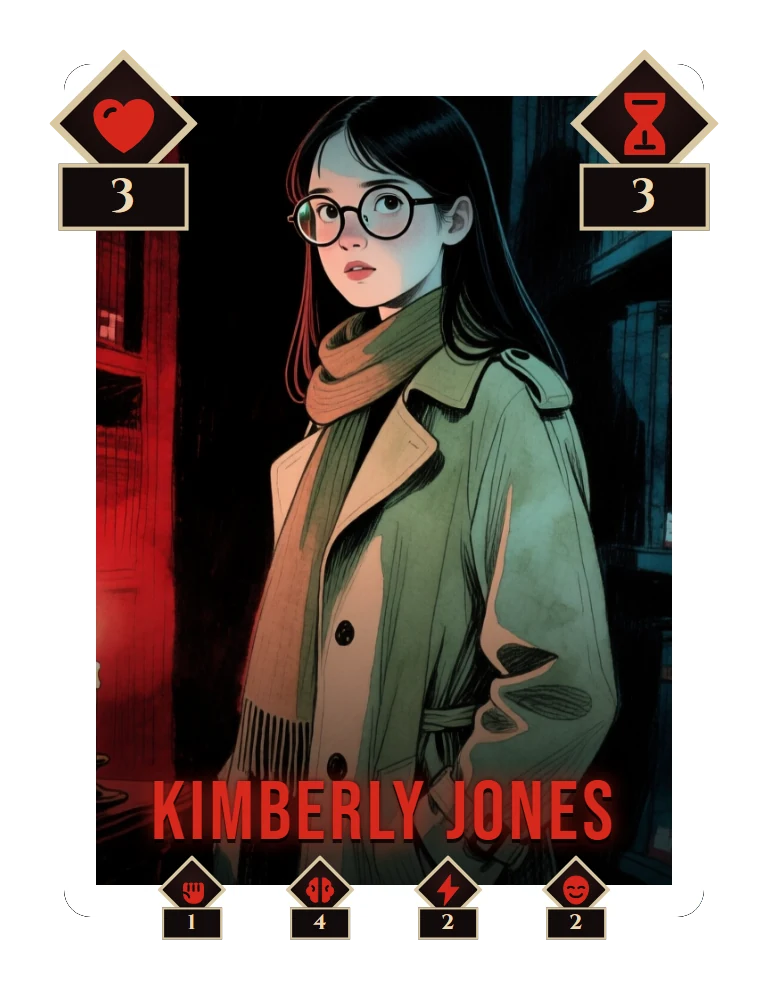
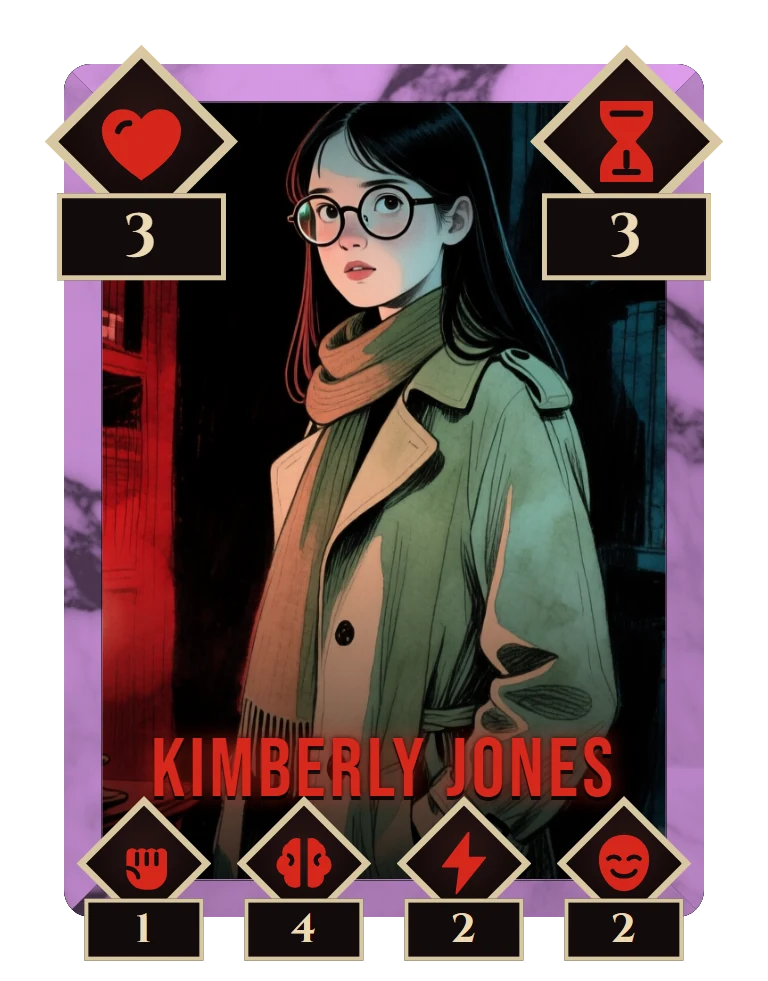
Carte: layout predefinito dei personaggi con cornice a marmo tinta per eroe e icone sigillo grandi sporgenti
Cornice a materiale (texture di Qwen in tools/galleria/texture), icone più grandi con fila inferiore equidistante,
nome più alto, statistiche di Scott e Kimberly in carta.stat, carte ri-esportate; script per generare le texture.

Changed region(s): [[0.0625, 0.0306, 0.9375, 0.9786]]

diff --git a/tools/galleria/carta.js b/tools/galleria/carta.js
@@ -13,17 +13,23 @@ const Carta = (() => {
   // s = 1.07: rifila il margine di carta con pennellate che le immagini generate hanno quasi sempre
   const IMM_DEF = { x: 0, y: 0, s: 1.07, st: 1 };   // s = scala (larghezza), st = stiramento verticale rispetto alle proporzioni originali
 
+  // colore (chiaro, per dare contrasto sull'illustrazione) con cui si tinge la cornice di ogni personaggio
+  const TINTE_PG = { P01: "#9cc26b", P02: "#f2bb4d", P03: "#c98fd6", P04: "#76aee0", P05: "#ec7f6f", P06: "#62c9bf" };
+  const MATERIALI = [["", "Nessuno (filo colorato)"], ["marmo_venato", "Marmo venato"]];   // texture in tools/galleria/texture/<id>.png (+ _r = ruotata di 90 gradi)
+
   const rapporto = c => (c.formato === "orizzontale" ? 3 / 2 : 3 / 4);
   const div = cl => Object.assign(document.createElement("div"), { className: cl });
   const clona = o => JSON.parse(JSON.stringify(o));
 
   function predefiniti(c) {
-    const vert = c.formato !== "orizzontale";
+    const vert = c.formato !== "orizzontale", pg = c.tipo === "personaggio";
     const els = [
       { id: "immagine", tipo: "immagine", nome: "Immagine", visibile: true },
       { id: "sfumatura", tipo: "sfumatura", nome: "Sfumatura", visibile: true, altezza: 48, intensita: 1 },
-      { id: "cornice", tipo: "cornice", nome: "Cornice", visibile: true, inset: 0, spessore: 5, colore: "#ffffff", opacita: 1, raggio: 4.2 },
-      { id: "nome", tipo: "testo", nome: "Nome", visibile: true, testo: null, x: 50, y: vert ? 88 : 86, dim: vert ? 13 : 11,
+      pg ? { id: "cornice", tipo: "cornice", nome: "Cornice", visibile: true, inset: 0, spessore: 6, colore: TINTE_PG[c.id.split("_")[0]] || "#c8c8c8", opacita: 1, raggio: 4.2, materiale: "marmo_venato" }
+         : { id: "cornice", tipo: "cornice", nome: "Cornice", visibile: true, inset: 0, spessore: 5, colore: "#ffffff", opacita: 1, raggio: 4.2 },
+      // nei personaggi il nome sta più in alto per lasciare posto alla fila di icone grandi che sporge dal bordo inferiore
+      { id: "nome", tipo: "testo", nome: "Nome", visibile: true, testo: null, x: 50, y: pg ? 83 : vert ? 88 : 86, dim: vert ? 13 : 11,
         font: "Bebas Neue", colore: "#d6281c", spaziatura: 0.6, maiuscolo: true, alone: true, rot: 0 },
     ];
     if (c.tipo === "personaggio" && typeof Statistiche !== "undefined") els.push(clona(Statistiche.PREDEFINITO));   // le carte personaggio hanno le statistiche
@@ -57,6 +63,13 @@ const Carta = (() => {
     if (e.tipo === "sfumatura") {
       const n = div("cx-el cx-sfumatura"), k = e.intensita;
       n.style.background = `linear-gradient(180deg, rgba(0,0,0,${0.28 * k}) 0%, transparent 22%, transparent ${100 - e.altezza}%, rgba(0,0,0,${Math.min(1, 0.88 * k)}) 100%)`;
+      return n;
+    }
+    if (e.tipo === "cornice" && e.materiale) {   // cornice a materiale: quattro lati con giunti a 45 gradi, texture in grigio tinta con `colore`
+      const n = div("cx-el cx-cornice cx-cornice-mat");
+      n.style.setProperty("--p", e.spessore + "cqw"); n.style.setProperty("--c", e.colore); n.style.opacity = e.opacita;
+      n.style.setProperty("--tx", `url("/s/texture/${e.materiale}.png")`); n.style.setProperty("--txr", `url("/s/texture/${e.materiale}_r.png")`);
+      ["t", "b", "l", "r"].forEach(k => n.append(div("lato " + k)));
       return n;
     }
     if (e.tipo === "cornice") {
@@ -96,5 +109,5 @@ const Carta = (() => {
     return wrap;
   }
 
-  return { FONT, IMM_DEF, rapporto, predefiniti, elementi, imm, render, clona };
+  return { FONT, MATERIALI, TINTE_PG, IMM_DEF, rapporto, predefiniti, elementi, imm, render, clona };
 })();

diff --git a/tools/galleria/statistiche.js b/tools/galleria/statistiche.js
@@ -47,7 +47,7 @@ const Statistiche = (() => {
 
   /* ---- disposizioni: posizione del centro di ogni icona (x, y in % della carta, ordine pf pa for int rap car),
    *      fattore di grandezza k e un'eventuale tavoletta scura dietro (l, t, w, h in % della carta) ---- */
-  function disposizione(id, u0, H) {   // u0 = lato base dell'icona (cqw), H = altezza della carta in cqw
+  function disposizione(id, u0, H, m = 0) {   // u0 = lato base dell'icona (cqw), H = altezza della carta in cqw, m = ulteriore sporgenza verso l'esterno (cqw: spessore della cornice)
     const S = (xs, ys, k = 1) => xs.map((x, i) => ({ x, y: ys[i], k: Array.isArray(k) ? k[i] : k }));
     switch (id) {
       case "colonna": return { punti: S(Array(6).fill(11.5), [14, 26, 38, 50, 62, 74]), pannello: { l: 2, t: 7, w: 19, h: 75 } };
@@ -57,11 +57,11 @@ const Statistiche = (() => {
       // forza, intelletto, rapidità e carisma in orizzontale sotto il nome. Ogni icona sporge dal bordo del 10% del proprio lato
       // (le due d'angolo da due lati, quelle in basso solo dal basso): nella carta fisica non compaiono oltre il bordo.
       case "pf": {
-        const k = [1.55, 1.55, 0.72, 0.72, 0.72, 0.72], u = k.map(x => u0 * x), pc = v => v / H * 100;   // cqw verticali -> % dell'altezza
+        const k = [1.55, 1.55, 1.08, 1.08, 1.08, 1.08], u = k.map(x => u0 * x), pc = v => v / H * 100;   // cqw verticali -> % dell'altezza
         return { punti: [
-          { x: 0.4 * u[0], y: pc(0.4 * u[0]), k: k[0] },
-          { x: 100 - 0.4 * u[1], y: pc(0.4 * u[1]), k: k[1] },
-          ...[20, 40, 60, 80].map((x, j) => ({ x, y: 100 - pc(0.4 * u[j + 2]), k: k[j + 2] })),
+          { x: 0.4 * u[0] - m, y: pc(0.4 * u[0] - m), k: k[0] },
+          { x: 100 - 0.4 * u[1] + m, y: pc(0.4 * u[1] - m), k: k[1] },
+          ...[12.5, 37.5, 62.5, 87.5].map((x, j) => ({ x, y: 100 - pc(0.4 * u[j + 2] - m), k: k[j + 2] })),
         ] };
       }
       case "medaglioni": return { punti: S([12, 88, 8, 92, 12, 88], [8, 8, 40, 40, 74, 74], 1.05) };
@@ -85,7 +85,7 @@ const Statistiche = (() => {
     assicuraFiltro();
     const host = document.createElement("div"); host.className = `cx-el cx-stats cx-st-${e.stile}`;
     const val = Object.assign({}, VALORI_ESEMPIO, c.stat || {}, e.valori || {});
-    const u0 = 15 * (e.scala || 1), d = disposizione(e.disposizione, u0, c.formato === "orizzontale" ? 100 / 1.5 : 100 / 0.75), dx = e.dx || 0, dy = e.dy || 0;   // dx, dy: scostamento di tutto il gruppo (% della carta)
+    const u0 = 15 * (e.scala || 1), d = disposizione(e.disposizione, u0, c.formato === "orizzontale" ? 100 / 1.5 : 100 / 0.75, e.margine || 0), dx = e.dx || 0, dy = e.dy || 0;   // dx, dy: scostamento di tutto il gruppo (% della carta)
     if (d.pannello) {
       const p = document.createElement("div"); p.className = "cx-st-pannello";
       Object.assign(p.style, { left: d.pannello.l + dx + "%", top: d.pannello.t + dy + "%", width: d.pannello.w + "%", height: d.pannello.h + "%" });
@@ -102,6 +102,6 @@ const Statistiche = (() => {
     return host;
   }
 
-  const PREDEFINITO = { id: "statistiche", tipo: "statistiche", nome: "Statistiche", visibile: true, disposizione: "pf", stile: "incisione", scala: 1, dx: 0, dy: 0, valori: null };
+  const PREDEFINITO = { id: "statistiche", tipo: "statistiche", nome: "Statistiche", visibile: true, disposizione: "pf", stile: "sigillo", scala: 1.3, margine: 0, dx: 0, dy: 0, valori: null };
   return { STAT, STILI, DISPOSIZIONI, VALORI_ESEMPIO, PREDEFINITO, crea };
 })();

diff --git a/tools/galleria/carta.css b/tools/galleria/carta.css
@@ -10,6 +10,14 @@
 .cx-immagine img { display: block; width: 100%; height: auto; -webkit-user-drag: none; pointer-events: none; }
 .cx-sfumatura { inset: 0; pointer-events: none; }
 .cx-cornice { pointer-events: none; }
+/* cornice a materiale: ogni lato e' un trapezio ritagliato (giunti a 45 gradi); la texture e' in grigio chiaro e si tinge col colore del personaggio (multiply) */
+.cx-cornice-mat { inset: 0; }
+.cx-cornice-mat .lato { position: absolute; inset: 0; background-color: var(--c); background-blend-mode: multiply; background-size: 150cqw 150cqw; }
+.cx-cornice-mat .t { background-image: var(--tx); background-position: -10cqw -20cqw; clip-path: polygon(0 0, 100% 0, calc(100% - var(--p)) var(--p), var(--p) var(--p)); filter: brightness(1.1); }
+.cx-cornice-mat .b { background-image: var(--tx); background-position: -50cqw -90cqw; clip-path: polygon(0 100%, 100% 100%, calc(100% - var(--p)) calc(100% - var(--p)), var(--p) calc(100% - var(--p))); filter: brightness(.86); }
+.cx-cornice-mat .l { background-image: var(--txr); background-position: -30cqw -10cqw; clip-path: polygon(0 0, var(--p) var(--p), var(--p) calc(100% - var(--p)), 0 100%); filter: brightness(.98); }
+.cx-cornice-mat .r { background-image: var(--txr); background-position: -100cqw -40cqw; clip-path: polygon(100% 0, calc(100% - var(--p)) var(--p), calc(100% - var(--p)) calc(100% - var(--p)), 100% 100%); filter: brightness(.92); }
+.cx-cornice-mat::after { content: ""; position: absolute; inset: calc(var(--p) - .25cqw); border: .25cqw solid rgba(0, 0, 0, .55); border-radius: 1cqw; }
 .cx-testo { white-space: nowrap; line-height: 1; }
 .cx-modifica .cx-immagine, .cx-modifica .cx-testo { cursor: move; touch-action: none; }
 .cx-modifica .cx-stat, .cx-modifica .cx-st-pannello { pointer-events: auto; cursor: move; touch-action: none; }

diff --git a/tools/galleria/editor.js b/tools/galleria/editor.js
@@ -288,7 +288,9 @@ const Editor = (() => {
       const col = Object.assign(document.createElement("input"), { type: "color", value: e.colore }); col.oninput = () => { e.colore = col.value; cambiato(); };
       const ins = slider(0, 25, 0.1, e.inset, v => (e.inset = v), v => v.toFixed(1)), sp = slider(0.05, 12, 0.05, e.spessore, v => (e.spessore = v), v => v.toFixed(2));
       const op = slider(0, 1, 0.01, e.opacita, v => (e.opacita = v), v => Math.round(v * 100) + "%"), ra = slider(0, 15, 0.1, e.raggio, v => (e.raggio = v), v => v.toFixed(1));
-      p.append(riga("Margine", ins), riga("Spessore", sp), riga("Colore", col), riga("Opacità", op), riga("Angoli tondi", ra));
+      const ma = document.createElement("select"); Carta.MATERIALI.forEach(([i, n]) => ma.append(new Option(n, i, false, i === (e.materiale || ""))));
+      ma.onchange = () => { if (ma.value) e.materiale = ma.value; else delete e.materiale; cambiato(); };
+      p.append(riga("Materiale", ma), riga("Margine", ins), riga("Spessore", sp), riga("Colore" + (e.materiale ? " (tinta)" : ""), col), riga("Opacità", op), riga("Angoli tondi", ra));
       aggiornaValori = () => ins.set(e.inset);
     } else if (e.tipo === "statistiche") {
       const sd = document.createElement("select"); Statistiche.DISPOSIZIONI.forEach(([i, n]) => sd.append(new Option(n, i, false, i === e.disposizione)));

diff --git a/tools/comfyui/genera_texture.py b/tools/comfyui/genera_texture.py
@@ -1,0 +1,37 @@
+"""Genera texture di materiali (legno, marmo, pietra ...) per le cornici delle carte, a media luminosita'
+cosi' da poterle colorare a piacere (multiply / tinta) anche in vettoriale. Output in arte/texture/<id>_v<N>.png.
+Uso: python tools/comfyui/genera_texture.py [id ...]"""
+import os, sys, time
+sys.path.insert(0, os.path.dirname(__file__))
+from genera import genera, coda_vuota
+
+BASE = ("flat top-down close-up photograph of {m}, filling the entire frame edge to edge, uniform even lighting, no shadows, "
+        "no perspective, no objects, no border, seamless tileable material texture, high detail, sharp, strong contrast, rich visible grain and relief, natural mid-tone colors")
+NEG = "text, letters, watermark, frame, border, object, person, hand, perspective, vignette, dark shadows, strong color, cartoon, drawing"
+
+MATERIALI = {
+    "legno_chiaro": "light oak wooden planks with fine straight grain",
+    "legno_antico": "old weathered dark wood board with deep grain, cracks and knots",
+    "marmo_venato": "white carrara marble slab with distinct dark grey veins",
+    "marmo_nero": "polished black marble with thin white veins",
+    "pietra_tombale": "weathered speckled grey granite gravestone surface with lichen stains, uniform without any recess",
+    "pietra_grezza": "rough cut sandstone with cracks and chisel marks",
+    "intonaco": "peeling cracked old plaster wall with damp stains",
+    "metallo_arrugginito": "rusty corroded iron plate with scratches and rivet marks",
+    "cuoio": "old worn leather with creases and stitching texture",
+    "carta_parati": "faded damask victorian wallpaper pattern with stains and tears",
+    "mattoni": "old crumbling brick wall with moss and mortar",
+    "osso_avorio": "aged yellowed ivory bone surface with fine cracks",
+}
+
+if __name__ == "__main__":
+    if not coda_vuota():
+        sys.exit("Coda ComfyUI non vuota: riprovo più tardi.")
+    ids = sys.argv[1:] or list(MATERIALI)
+    for i, k in enumerate(ids):
+        for v in (1,):
+            dest = f"arte/texture/{k}_v{v}.png"
+            if os.path.exists(dest): continue
+            t = time.time()
+            s = genera(BASE.format(m=MATERIALI[k]), dest, NEG, 768, 768, seed=7000 + 100 * list(MATERIALI).index(k) + v)
+            print(k, v, "seed", s, f"{time.time()-t:.0f}s", flush=True)

diff --git a/tools/galleria/server.py b/tools/galleria/server.py
@@ -63,9 +63,10 @@ class Gestore(BaseHTTPRequestHandler):
         if percorso.startswith("/s/"):
             nome = percorso[3:]
             f = os.path.join(os.path.dirname(__file__), nome)
-            if re.fullmatch(r"[\w.-]+\.(js|css)", nome) and os.path.isfile(f):
+            if re.fullmatch(r"(texture/)?[\w.-]+\.(js|css|png)", nome) and os.path.isfile(f):
                 with open(f, "rb") as fh:
-                    return self._invia(200, fh.read(), "text/javascript; charset=utf-8" if nome.endswith(".js") else "text/css; charset=utf-8")
+                    tipo = {"js": "text/javascript; charset=utf-8", "css": "text/css; charset=utf-8", "png": "image/png"}[nome.rsplit(".", 1)[1]]
+                    return self._invia(200, fh.read(), tipo)
         if percorso == "/stats":
             with open(os.path.join(os.path.dirname(__file__), "stats.html"), "rb") as f:
                 return self._invia(200, f.read(), "text/html; charset=utf-8")

diff --git a/CLAUDE.md b/CLAUDE.md
@@ -76,6 +76,8 @@ I JSON sono caricati con `fetch` all'avvio da `script.js` (vedi le chiamate `fet
 
 - **Immagini nel gioco**: `arte/` è fuori da git, quindi le carte approvate nella galleria vanno esportate con `python tools/galleria/esporta.py` (Edge headless): scrive `assets/carte/personaggi/<Pnn>.webp` (carta completa con nome e statistiche, sfondo trasparente), `assets/carte/luoghi/<Ann>.webp` (solo i luoghi **abbandonati**, non quelli `_abitata`), `assets/carte/indice.json` e il blocco `<carte>` di `service-worker.js`. Il gioco usa `immagine` di `eroi_base.json` (eroi) e `indice.json` (luoghi, `applicaImmagineLuogo`). `eroi_base.json` ha anche `caratteristiche` (pf, pa, forza, intelletto, rapidita, carisma) per gli eroi già definiti (P02, P03); i PA (clessidra) sono la nuova meccanica in arrivo.
 
+- **Layout predefinito delle carte personaggio** (senza `layout` salvato in `arte/galleria.json`, valori in `carta.stat`): cornice a materiale "marmo venato" (texture in `tools/galleria/texture/`, tinta chiara per eroe in `Carta.TINTE_PG`, spessore 6 cqw, giunti a 45°), icone `sigillo` scala 1,3 che sporgono del 10% dal bordo (angoli: PF e PA/clessidra; in basso: 4 caratteristiche equidistanti, +50%), nome a y=83. Altre texture generate con `tools/comfyui/genera_texture.py` (in `arte/texture/`, fuori da git).
+
 ## Stato attuale
 
 Ultimo lavoro (ott 2026): IA delle minacce (movimento passo-passo, esplorazione piani, memoria sbarramenti, apertura porte/finestre chiuse, attraversamento finestre con effetto "si china") e rifiniture della camera. Aggiorna questa sezione quando cambia il filone di lavoro.
